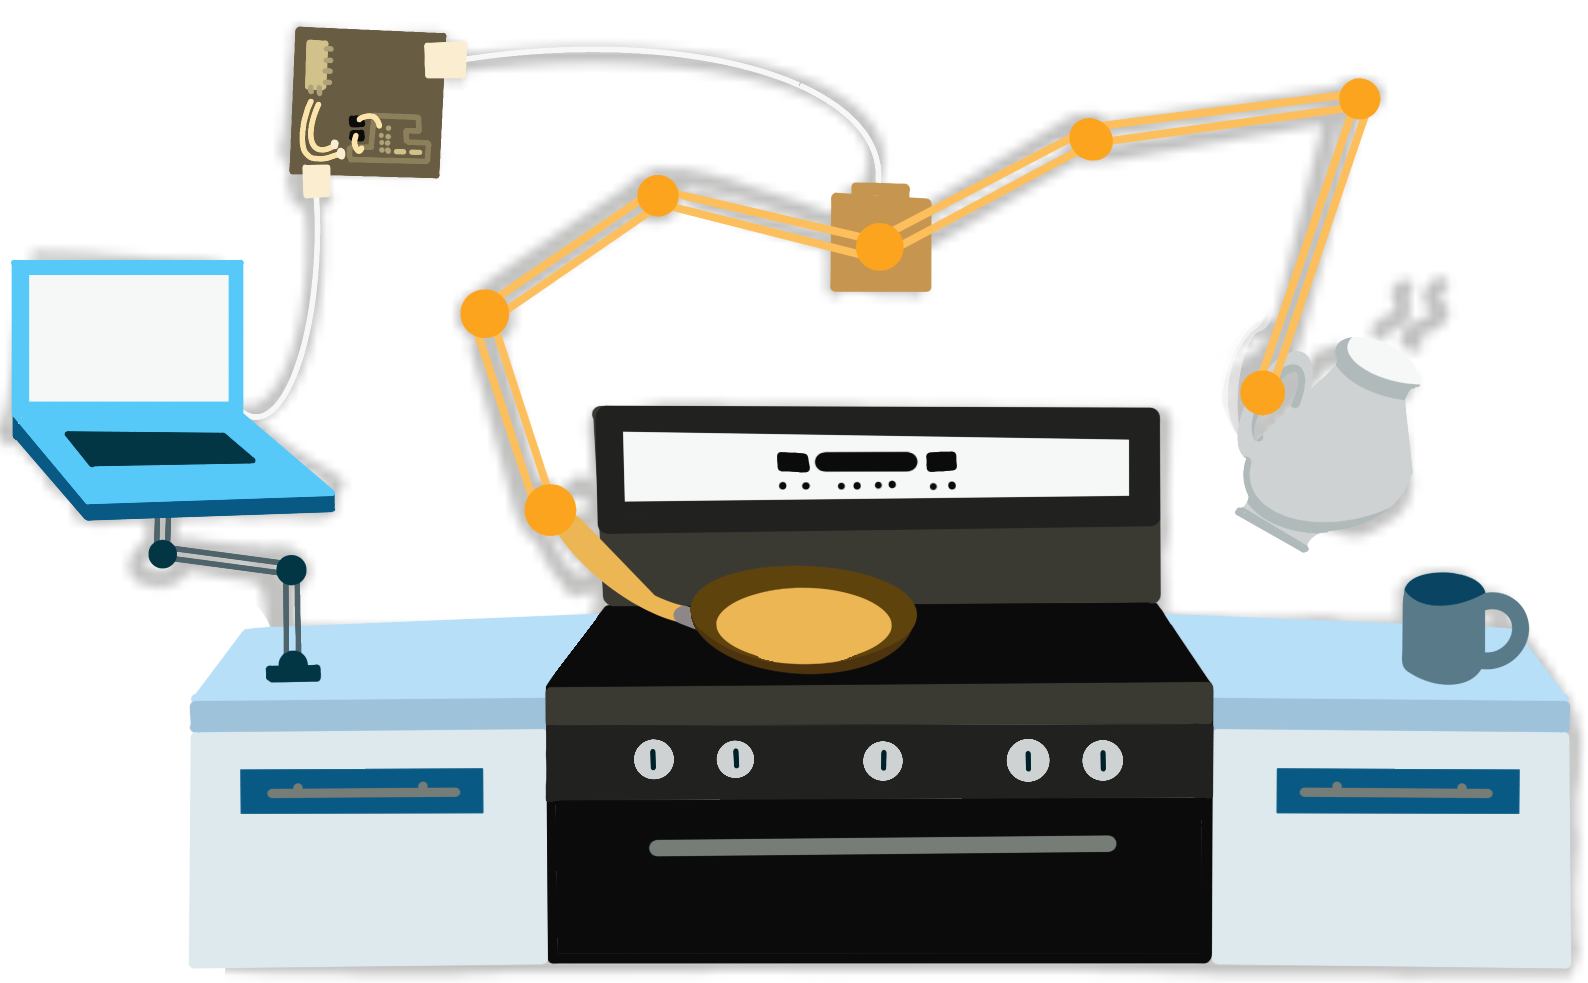
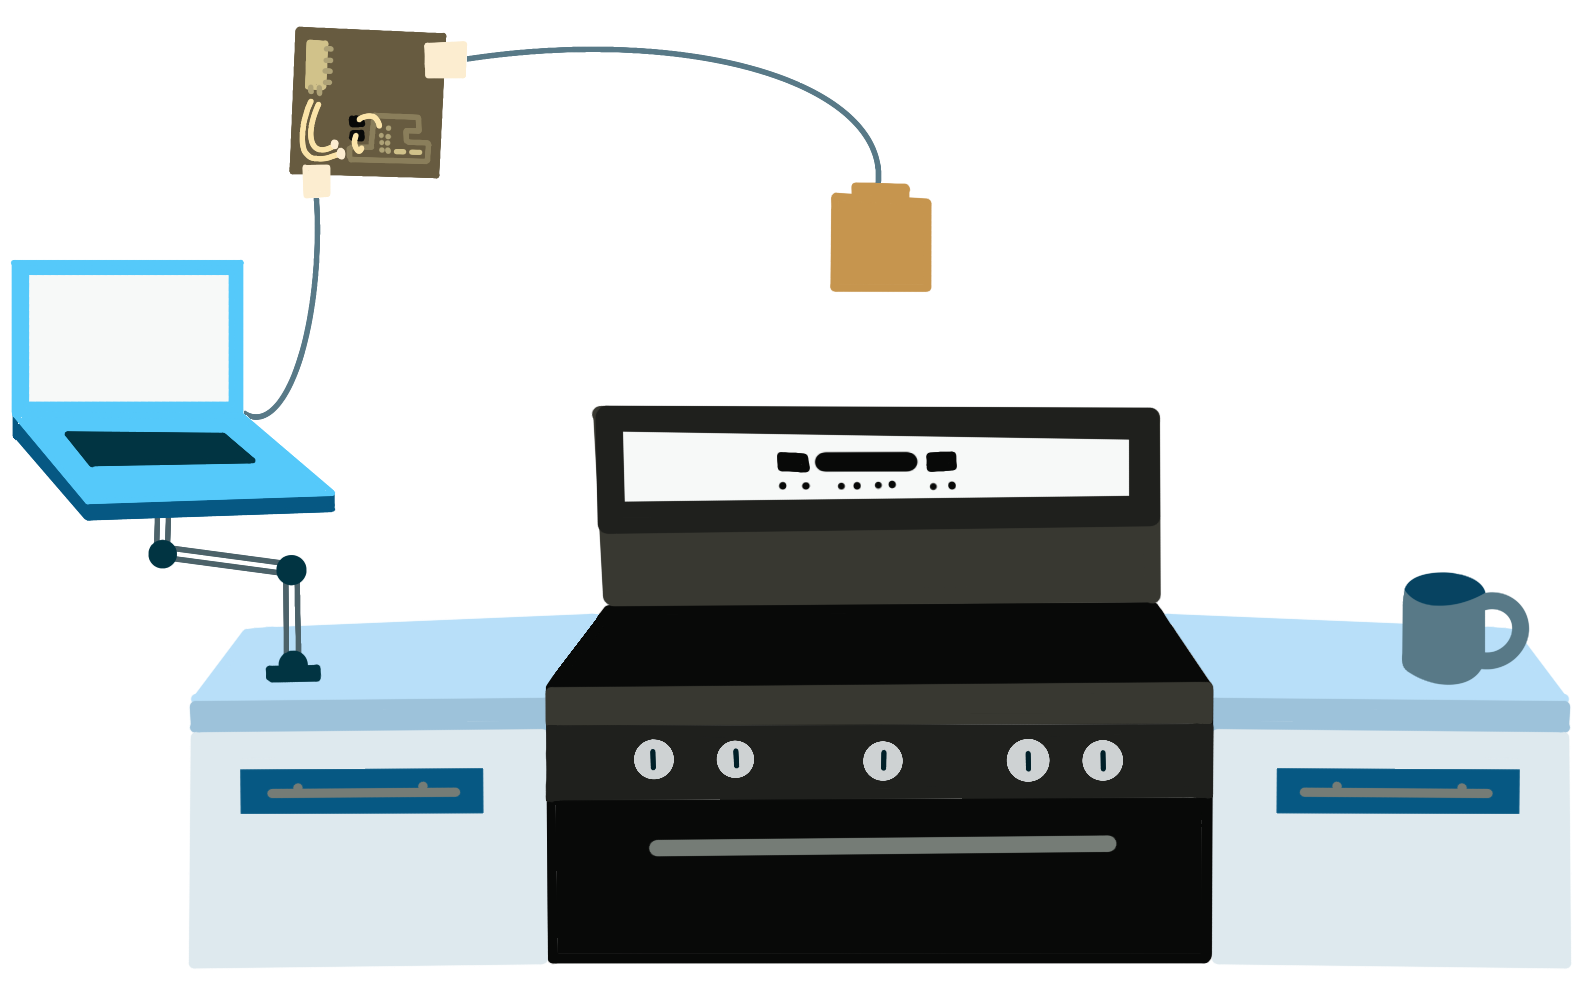
adding kitchen elements separately

diff --git a/src/components/About.js b/src/components/About.js
@@ -1,6 +1,13 @@
 import React from "react"
 import resume from "../Lugo_Adrian_Resume.pdf"
 import kitchen from "../images/kitchen.png"
+import center from "../images/center.png"
+import left1 from "../images/left1.png"
+import left2 from "../images/left2.png"
+import left3 from "../images/left3.png"
+import right1 from "../images/right1.png"
+import right2 from "../images/right2.png"
+import right3 from "../images/right3.png"
 
 export default function About() {
     return (
@@ -33,6 +40,13 @@ export default function About() {
                 </div>
                 <div className="images-container">
                     <img className="kitchen" src={kitchen} alt="a technological kitchen"></img>
+                    <img className="left3" src={left3}></img>
+                    <img className="right3" src={right3}></img>
+                    <img className="left2" src={left2}></img>
+                    <img className="right2" src={right2}></img>
+                    <img className="left1" src={left1}></img>
+                    <img className="right1" src={right1}></img>
+                    <img className="center" src={center}></img>
                 </div>
             </div>
         </div>

diff --git a/src/index.css b/src/index.css
@@ -269,10 +269,12 @@ body {
 .about-content .images-container {
     margin: 2rem 0;
     width: 100%;
+    position: relative;
 }
 
 .about-content img {
     width: 100%;
+    position: absolute;
 }
 
 @media (min-width: 400px) {
